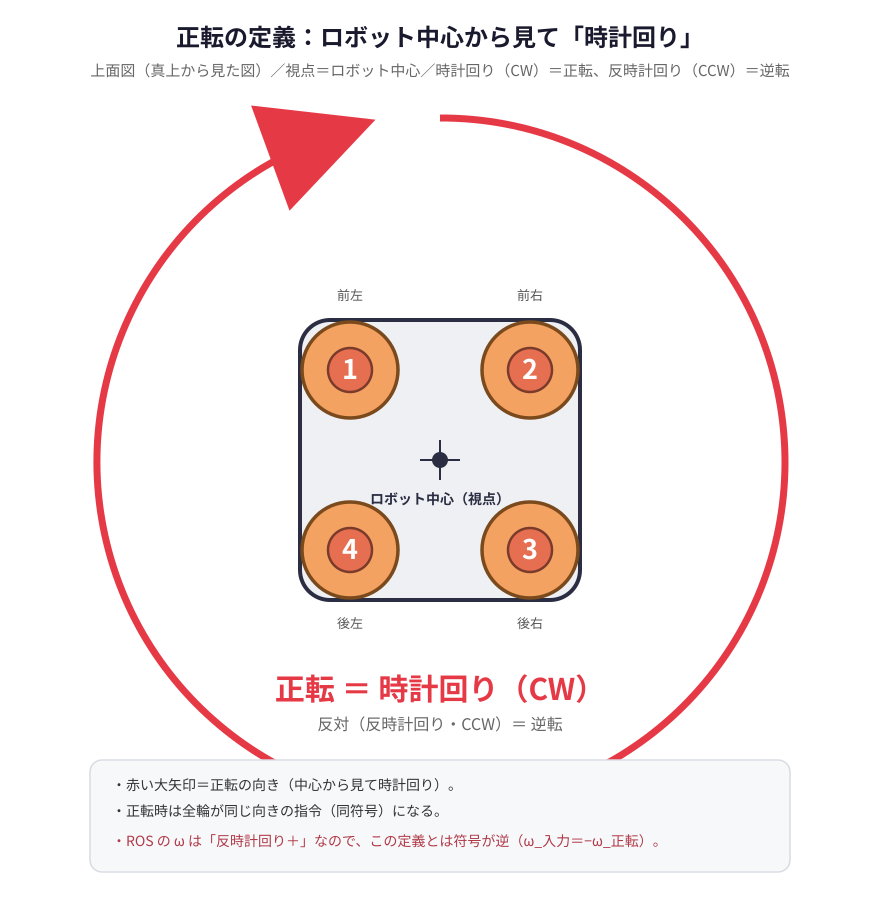
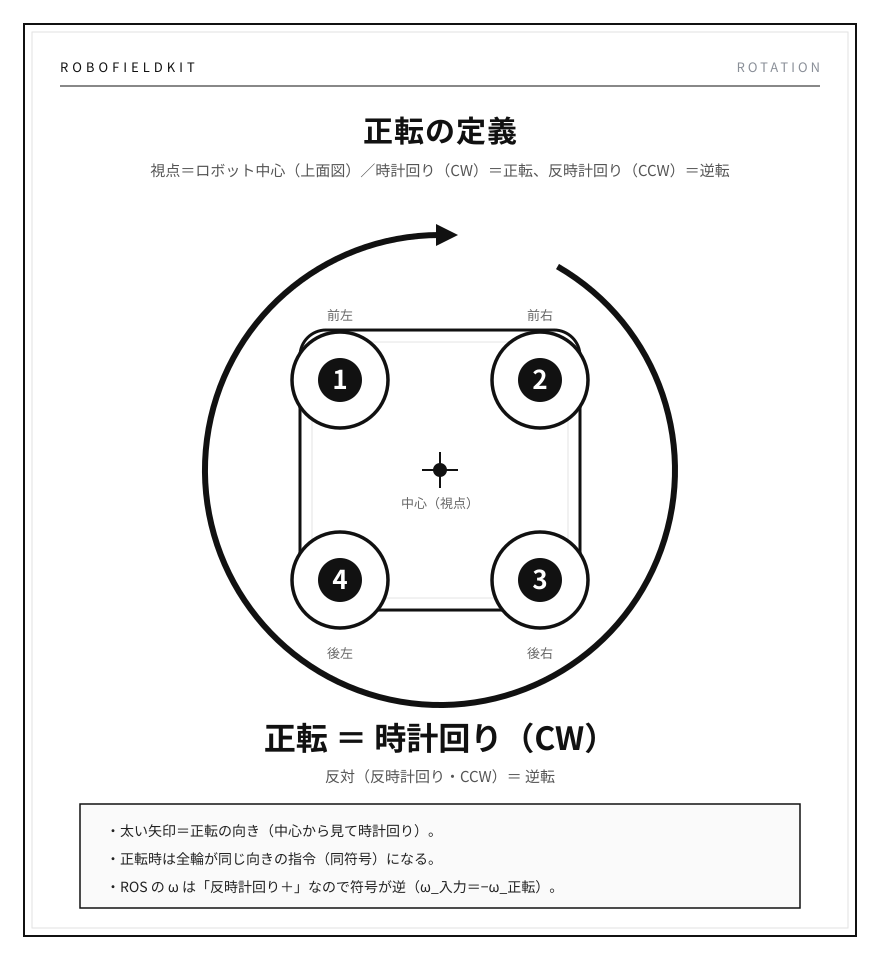
docs: 回転方向の定義をWebページ化（白黒ベース）・トップからリンク

diff --git a/docs/rotation-convention.html b/docs/rotation-convention.html
@@ -1,0 +1,113 @@
+<!DOCTYPE html>
+<html lang="ja">
+<head>
+<meta charset="utf-8">
+<meta name="viewport" content="width=device-width, initial-scale=1">
+<title>回転方向の定義と符号 — RoboFieldKit</title>
+<style>
+  :root { --ink:#111; --sub:#555; --mut:#8a8f98; --line:#e2e2e2; --bg:#fff; }
+  * { box-sizing:border-box; }
+  body { margin:0; background:var(--bg); color:var(--ink);
+    font-family:"Noto Sans JP","BIZ UDGothic",-apple-system,"Segoe UI",sans-serif; line-height:1.75; }
+  .wrap { max-width:900px; margin:0 auto; padding:28px 22px 64px; }
+  .kicker { font-size:12px; letter-spacing:.22em; color:var(--ink); }
+  .kicker .right { float:right; color:var(--mut); letter-spacing:.18em; }
+  hr.top { border:0; border-top:1px solid var(--ink); margin:12px 0 26px; }
+  h1 { font-size:26px; margin:0 0 6px; letter-spacing:.02em; }
+  .lead { color:var(--sub); font-size:14px; margin:0 0 26px; }
+  h2 { font-size:18px; margin:38px 0 10px; padding-bottom:6px; border-bottom:1px solid var(--line); }
+  p { font-size:14.5px; margin:10px 0; }
+  ul { font-size:14.5px; padding-left:1.2em; }
+  li { margin:4px 0; }
+  figure { margin:18px 0; border:1px solid var(--ink); padding:8px; }
+  figure img { width:100%; display:block; }
+  figcaption { font-size:12px; color:var(--mut); padding:6px 2px 0; }
+  table { border-collapse:collapse; width:100%; font-size:14px; margin:14px 0; }
+  th { background:var(--ink); color:#fff; font-weight:700; }
+  th,td { border:1px solid #ddd; padding:8px 10px; text-align:center; }
+  td.pos { color:#111; font-weight:700; }
+  td.neg { color:#c0c0c0; }
+  td.lbl { text-align:left; font-weight:400; color:#222; }
+  code { background:#f5f5f5; border:1px solid var(--line); border-radius:4px; padding:1px 5px; font-size:13px; }
+  .note { background:#fafafa; border:1px solid var(--ink); padding:12px 16px; font-size:14px; margin:16px 0; }
+  .note b { display:block; margin-bottom:6px; }
+  .warn { border-left:3px solid var(--ink); background:#fafafa; padding:10px 16px; font-size:13.5px; }
+  footer { margin-top:40px; padding-top:12px; border-top:1px solid var(--line); font-size:12px; color:var(--mut); }
+</style>
+</head>
+<body>
+<div class="wrap">
+  <div class="kicker">ROBOFIELDKIT<span class="right">ROTATION</span></div>
+  <hr class="top">
+
+  <h1>回転方向の定義と符号</h1>
+  <p class="lead">視点＝ロボット中心（上面図）／時計回り（CW）＝正転、反時計回り（CCW）＝逆転</p>
+
+  <figure>
+    <img src="./rotation_definition.png" alt="正転の定義（中心から見て時計回り）">
+    <figcaption>図1. 正転＝中心から見て時計回り（CW）。正転時は全輪が同符号。</figcaption>
+  </figure>
+
+  <h2>なぜ「視点」が必要か</h2>
+  <p>回転方向は絶対値ではない。同じ回転でも、<strong>どの面から見るか</strong>で「左回り／右回り」が入れ替わる。</p>
+  <ul>
+    <li>出力軸側（前面・負荷側）から見た向きと、端子側（背面）から見た向きは逆</li>
+    <li>真上から見た向きと、真下から見た向きも逆</li>
+  </ul>
+  <p>そのため「どこから見て」を先に固定する。本プロジェクトは <strong>視点＝ロボット中心（上面図）</strong>。</p>
+
+  <h2>ROS／座標系との符号の違い</h2>
+  <p>ROS は右手系（z 上向き）で、<strong>上から見て反時計回りが ＋</strong>。</p>
+  <div class="warn">
+    正転（CW）＝ −ω　／　逆転（CCW）＝ ＋ω　→　<code>ω_code = −ω_正転</code><br>
+    <code>cmd_vel.angular.z</code> や逆運動学へ渡すときは<strong>符号反転が必要</strong>。
+  </div>
+
+  <h2>4輪 正転／逆転 指令符号 対応表</h2>
+  <figure>
+    <img src="./rotation_table.png" alt="4輪 正転／逆転 指令符号 対応表">
+    <figcaption>図2. 各輪の「正転方向」を ＋ としたときの指令符号。</figcaption>
+  </figure>
+
+  <table>
+    <tr><th>輪</th><th>位置</th><th>正転(CW)</th><th>逆転(CCW)</th><th>前進(+x)</th><th>後退(−x)</th><th>左(+y)</th><th>右(−y)</th></tr>
+    <tr><td>1</td><td class="lbl">前左（左上）</td><td class="pos">+</td><td class="neg">−</td><td class="pos">+</td><td class="neg">−</td><td class="neg">−</td><td class="pos">+</td></tr>
+    <tr><td>2</td><td class="lbl">前右（右上）</td><td class="pos">+</td><td class="neg">−</td><td class="neg">−</td><td class="pos">+</td><td class="neg">−</td><td class="pos">+</td></tr>
+    <tr><td>3</td><td class="lbl">後右（右下）</td><td class="pos">+</td><td class="neg">−</td><td class="neg">−</td><td class="pos">+</td><td class="pos">+</td><td class="neg">−</td></tr>
+    <tr><td>4</td><td class="lbl">後左（左下）</td><td class="pos">+</td><td class="neg">−</td><td class="pos">+</td><td class="neg">−</td><td class="pos">+</td><td class="neg">−</td></tr>
+  </table>
+
+  <div class="note">
+    <b>読み方</b>
+    ・旋回：全輪が同符号（正転なら全 ＋）<br>
+    ・前進：左側（1・4）と右側（2・3）が逆符号<br>
+    ・左移動：前側（1・2）と後側（3・4）が逆符号
+  </div>
+
+  <h2>検証（<code>kinematics.js</code> の <code>omniWheels</code>）</h2>
+  <p><code>Lx=0.10, Ly=0.15</code>（テスト既定値）で実行。結果は <strong>全項目 PASS</strong>。</p>
+  <ul>
+    <li>純旋回：4輪すべて同符号／CW は CCW の単純な符号反転</li>
+    <li>前進・左移動の符号関係：上表どおり</li>
+    <li>旋回項：全輪が <code>L = √(Lx²+Ly²) = 0.180</code> で一致</li>
+    <li>最小二乗の往復（<code>BᵀB u = Bᵀw</code>）：誤差 <code>1.1e-16</code>（モデルは可逆）</li>
+  </ul>
+  <div class="warn">
+    <strong>観察：</strong><code>omniWheels</code> の並進ゲインは vx が <code>Ly/L</code>、vy が <code>Lx/L</code>。
+    <code>Lx ≠ Ly</code> のとき前進と横移動でゲインが変わる。45°固定マウントのオムニなら本来どちらも
+    <code>1/√2 ≒ 0.707</code> になるはずなので、<strong>ローラー角度（実機のマウント角）と要突き合わせ</strong>。
+  </div>
+
+  <h2>検証済みの式（正転＝CW を ＋ に書き直した形）</h2>
+  <p><code>c = Lx / L</code>、<code>s = Ly / L</code>、<code>L = √(Lx² + Ly²)</code>、ω は正転（CW）を ＋</p>
+  <ul>
+    <li>輪1（前左）＝ <code>vy·c − vx·s − ω·L</code></li>
+    <li>輪2（前右）＝ <code>vx·s + vy·c − ω·L</code></li>
+    <li>輪4（後左）＝ <code>−(vx·s + vy·c) − ω·L</code></li>
+    <li>輪3（後右）＝ <code>vx·s − vy·c − ω·L</code></li>
+  </ul>
+
+  <footer>RoboFieldKit — docs/rotation-convention.html</footer>
+</div>
+</body>
+</html>

diff --git a/index.html b/index.html
@@ -249,6 +249,7 @@
 
   <footer class="app-footer">
     <p>RoboFieldKit · 完全クライアントサイド · オフライン動作</p>
+    <p><a href="docs/rotation-convention.html">📐 回転方向の定義と符号（正転＝時計回り）</a></p>
     <p id="sw-status" class="sw-status">サービスワーカー: 確認中…</p>
   </footer>
 
